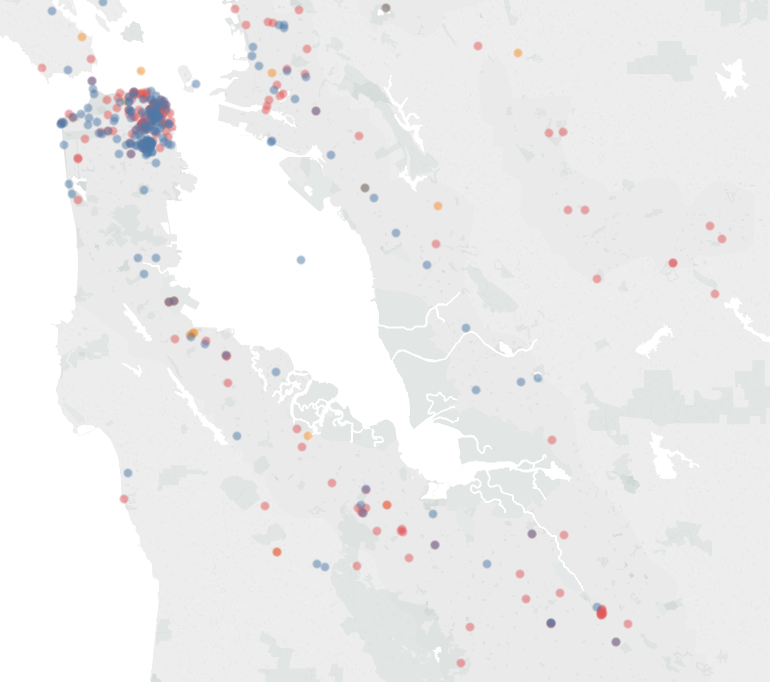
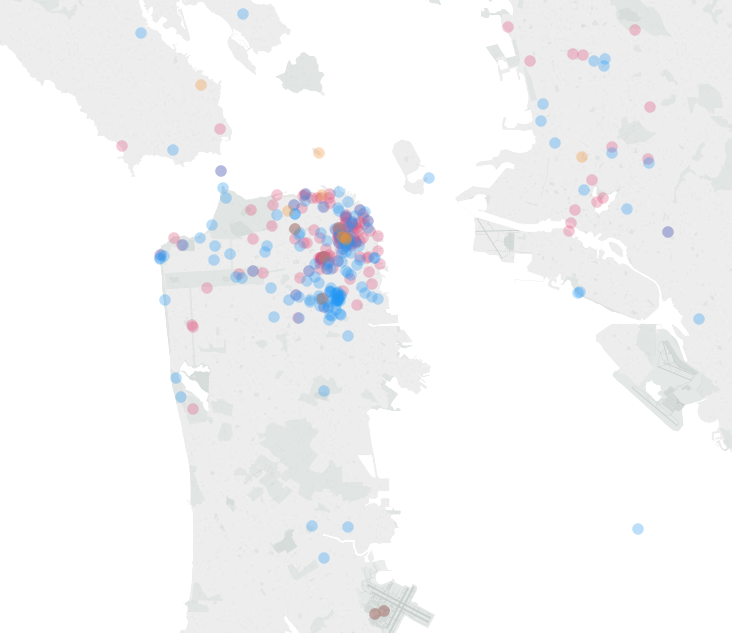
commit

diff --git a/d3.html b/d3.html
@@ -1,0 +1,212 @@
+<!DOCTYPE html>
+<meta charset="utf-8">
+<style>
+
+body {
+  font: 10px sans-serif;
+}
+
+.chart { 
+  background: #fff;
+}
+
+p {
+  font: 12px helvetica;
+}
+
+
+.axis path, .axis line {
+  fill: none;
+  stroke: #000;
+  stroke-width: 2px;
+  shape-rendering: crispEdges;
+}
+
+button {
+  position: absolute;
+  right: 50px;
+  top: 10px;
+}
+
+</style>
+<body>
+<script src="http://d3js.org/d3.v2.js"></script>
+
+
+<div class="chart">
+</div>
+
+<script>
+
+chart("data.csv", "orange");
+
+var datearray = [];
+var colorrange = [];
+
+
+function chart(csvpath, color) {
+
+if (color == "blue") {
+  colorrange = ["#045A8D", "#2B8CBE", "#74A9CF", "#A6BDDB", "#D0D1E6", "#F1EEF6"];
+}
+else if (color == "pink") {
+  colorrange = ["#980043", "#DD1C77", "#DF65B0", "#C994C7", "#D4B9DA", "#F1EEF6"];
+}
+else if (color == "orange") {
+  colorrange = ["#B30000", "#E34A33", "#FC8D59", "#FDBB84", "#FDD49E", "#FEF0D9"];
+}
+strokecolor = colorrange[0];
+
+var format = d3.time.format("%m/%d/%y");
+
+var margin = {top: 20, right: 40, bottom: 30, left: 30};
+var width = document.body.clientWidth - margin.left - margin.right;
+var height = 400 - margin.top - margin.bottom;
+
+var tooltip = d3.select("body")
+    .append("div")
+    .attr("class", "remove")
+    .style("position", "absolute")
+    .style("z-index", "20")
+    .style("visibility", "hidden")
+    .style("top", "30px")
+    .style("left", "55px");
+
+var x = d3.time.scale()
+    .range([0, width]);
+
+var y = d3.scale.linear()
+    .range([height-10, 0]);
+
+var z = d3.scale.ordinal()
+    .range(colorrange);
+
+var xAxis = d3.svg.axis()
+    .scale(x)
+    .orient("bottom")
+    .ticks(d3.time.weeks);
+
+var yAxis = d3.svg.axis()
+    .scale(y);
+
+var yAxisr = d3.svg.axis()
+    .scale(y);
+
+var stack = d3.layout.stack()
+    .offset("silhouette")
+    .values(function(d) { return d.values; })
+    .x(function(d) { return d.date; })
+    .y(function(d) { return d.value; });
+
+var nest = d3.nest()
+    .key(function(d) { return d.key; });
+
+var area = d3.svg.area()
+    .interpolate("cardinal")
+    .x(function(d) { return x(d.date); })
+    .y0(function(d) { return y(d.y0); })
+    .y1(function(d) { return y(d.y0 + d.y); });
+
+var svg = d3.select(".chart").append("svg")
+    .attr("width", width + margin.left + margin.right)
+    .attr("height", height + margin.top + margin.bottom)
+  .append("g")
+    .attr("transform", "translate(" + margin.left + "," + margin.top + ")");
+
+var graph = d3.csv(csvpath, function(data) {
+  data.forEach(function(d) {
+    d.date = format.parse(d.date);
+    d.value = +d.value;
+  });
+
+  var layers = stack(nest.entries(data));
+
+  x.domain(d3.extent(data, function(d) { return d.date; }));
+  y.domain([0, d3.max(data, function(d) { return d.y0 + d.y; })]);
+
+  svg.selectAll(".layer")
+      .data(layers)
+    .enter().append("path")
+      .attr("class", "layer")
+      .attr("d", function(d) { return area(d.values); })
+      .style("fill", function(d, i) { return z(i); });
+
+
+  svg.append("g")
+      .attr("class", "x axis")
+      .attr("transform", "translate(0," + height + ")")
+      .call(xAxis);
+
+  svg.append("g")
+      .attr("class", "y axis")
+      .attr("transform", "translate(" + width + ", 0)")
+      .call(yAxis.orient("right"));
+
+  svg.append("g")
+      .attr("class", "y axis")
+      .call(yAxis.orient("left"));
+
+  svg.selectAll(".layer")
+    .attr("opacity", 1)
+    .on("mouseover", function(d, i) {
+      svg.selectAll(".layer").transition()
+      .duration(250)
+      .attr("opacity", function(d, j) {
+        return j != i ? 0.6 : 1;
+    })})
+
+    .on("mousemove", function(d, i) {
+      mousex = d3.mouse(this);
+      mousex = mousex[0];
+      var invertedx = x.invert(mousex);
+      invertedx = invertedx.getMonth() + invertedx.getDate();
+      var selected = (d.values);
+      for (var k = 0; k < selected.length; k++) {
+        datearray[k] = selected[k].date
+        datearray[k] = datearray[k].getMonth() + datearray[k].getDate();
+      }
+
+      mousedate = datearray.indexOf(invertedx);
+      pro = d.values[mousedate].value;
+
+      d3.select(this)
+      .classed("hover", true)
+      .attr("stroke", strokecolor)
+      .attr("stroke-width", "0.5px"), 
+      tooltip.html( "<p>" + d.key + "<br>" + pro + "</p>" ).style("visibility", "visible");
+      
+    })
+    .on("mouseout", function(d, i) {
+     svg.selectAll(".layer")
+      .transition()
+      .duration(250)
+      .attr("opacity", "1");
+      d3.select(this)
+      .classed("hover", false)
+      .attr("stroke-width", "0px"), tooltip.html( "<p>" + d.key + "<br>" + pro + "</p>" ).style("visibility", "hidden");
+  })
+    
+  var vertical = d3.select(".chart")
+        .append("div")
+        .attr("class", "remove")
+        .style("position", "absolute")
+        .style("z-index", "19")
+        .style("width", "1px")
+        .style("height", "380px")
+        .style("top", "10px")
+        .style("bottom", "30px")
+        .style("left", "0px")
+        .style("background", "#fff");
+
+  d3.select(".chart")
+      .on("mousemove", function(){  
+         mousex = d3.mouse(this);
+         mousex = mousex[0] + 5;
+         vertical.style("left", mousex + "px" )})
+      .on("mouseover", function(){  
+         mousex = d3.mouse(this);
+         mousex = mousex[0] + 5;
+         vertical.style("left", mousex + "px")});
+});
+}
+</script>

diff --git a/index.html b/index.html
@@ -188,13 +188,16 @@
 
     <i>Question: Does renttherunway dominate across US?</i>
     <br>    
-    <img class="analysis-images" height = "200px" src="images/east.png">
-    <img class="analysis-images" align = "right" height = "200px" src="images/bay.png">
-    <p>Left: Northeast Area and New York City</p>
-    <p>Right: The Bay Area and Downtown San Francisco</p>
+
+    <iframe src="https://cdn.datamatic.io/runtime/echarts/3.7.2_230/embedded/index.html#id=116500766452596807846/1Jk0Arzj_hcY2VwtmfjggU0hlzvcqNshX" frameborder="0" width="100%" height="443" allowtransparency="true"></iframe>
     <p>Renttherunway was launched in 2009 with 505 employee currently. On contrast, Letote is established in 2012 with a group of employee arounf 150. Letote is still under Series C funding, so there is gap between the volumn of two companies.
         The plots above clearly shows the dominance of RentTheRunway in east costal area. However, in the bay area where Letote was launched, ladies are open to both brands and many of them are subscribing both services (shown in orange dots).
     </p>
+    <img class="analysis-images" width = "100%" src="images/ec.png">
+    <p>North, East Area and New York City</p>
+    <img class="analysis-images" width = "100%" src="images/ca.png">
+    <p>California and Downtown San Francisco</p>
+
     
     <!-- <img class="analysis-images" height = "200px" src="images/nyc.png"> -->
     
